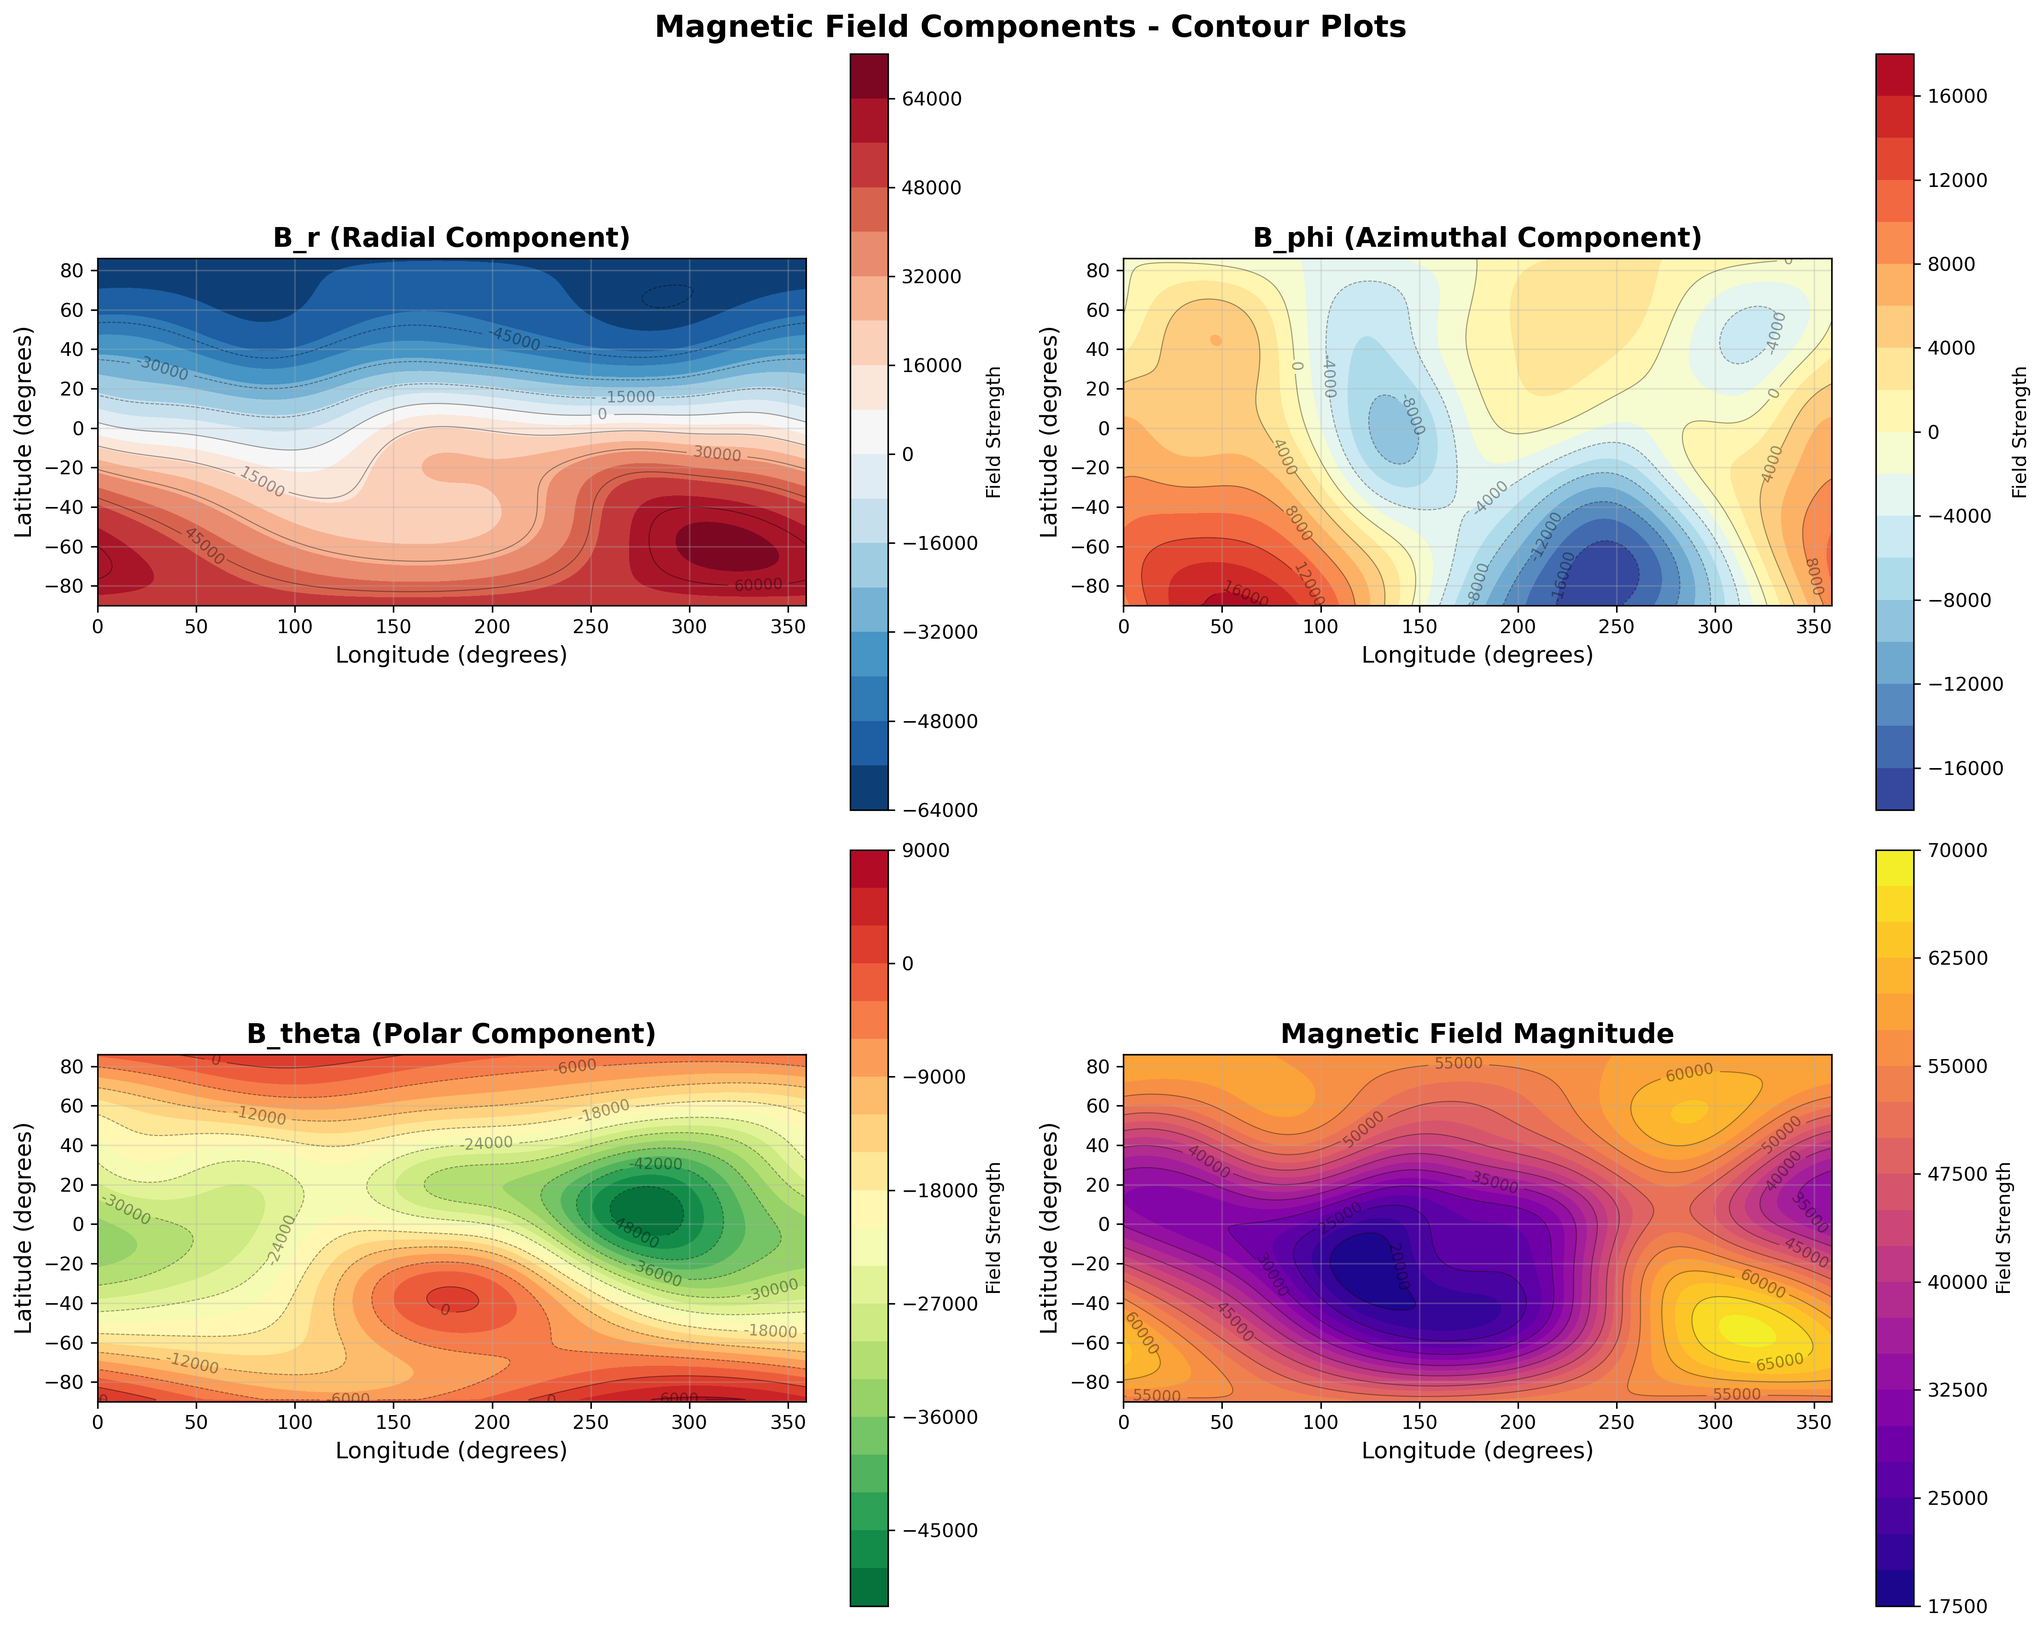
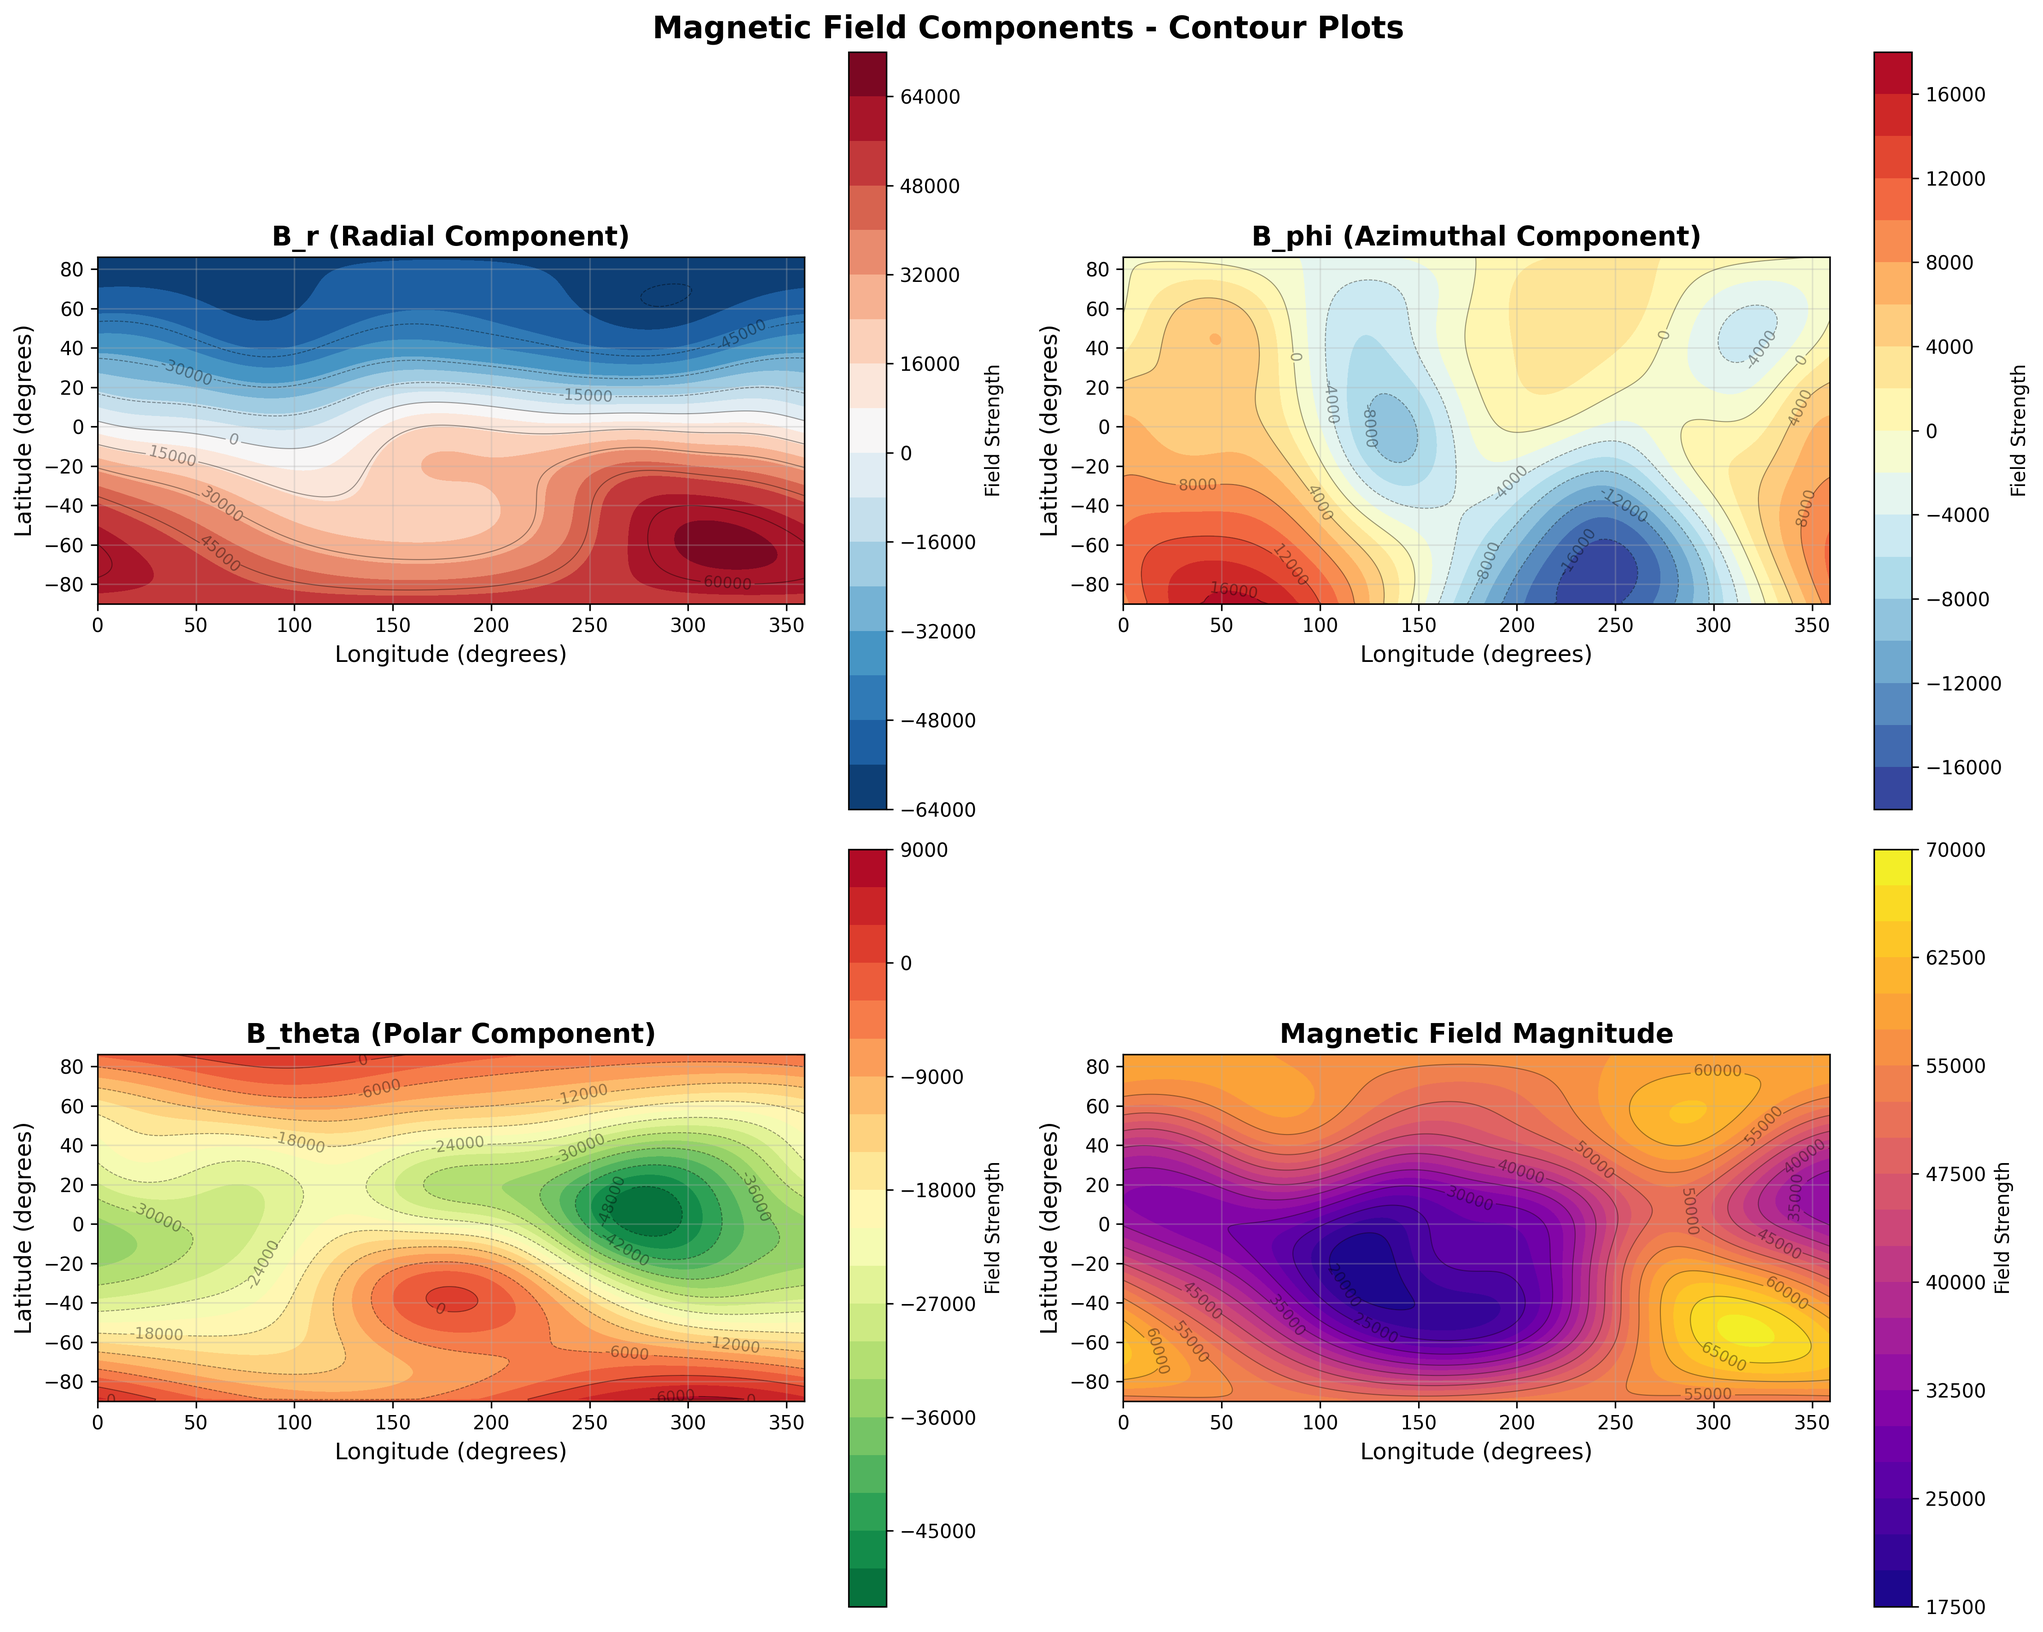
Make model order variable

diff --git a/src/gnc/world/b_field.cpp b/src/gnc/world/b_field.cpp
@@ -10,7 +10,8 @@
 // #include "constants.h"
 
 #define R_E 6378.0f
-#define MAX_ORDER 6
+#define MAX_ORDER 13
+#define MODEL_ORDER 10
 
 // Forward declare legendre polynomial functions
 float legendre_schmidt(int n, int m, float x);
@@ -21,44 +22,114 @@ float d_legendre_schmidt(int n, int m, float x);
 // Units in nanotesla
 // There is no n=0 term (that would imply a magnetic monopole)
 float g[MAX_ORDER + 1][MAX_ORDER + 1] = {
-    {0.0, 0.0, 0.0, 0.0, 0.0, 0.0, 0.0},               // n=0
-    {-29350.0, -1410.3, 0.0, 0.0, 0.0, 0.0, 0.0},      // n=1
-    {-2556.2, 2950.9, 1648.7, 0.0, 0.0, 0.0, 0.0},     // n=2
-    {1360.9, -2404.2, 1243.8, 453.4, 0.0, 0.0, 0.0},   // n=3
-    {894.7, 799.6, 55.8, -281.1, 12.0, 0.0, 0.0},      // n=4
-    {-232.9, 369.0, 187.2, -138.7, -141.9, 20.9, 0.0}, // n=5
-    {66.0, 65.5, 72.9, -121.5, -36.2, 13.9, -64.7}     // n=6
+    {0.0, 0.0, 0.0, 0.0, 0.0, 0.0, 0.0, 0.0, 0.0, 0.0, 0.0, 0.0, 0.0,
+     0.0}, // n=0
+    {-29350, -1410.3, 0.0, 0.0, 0.0, 0.0, 0.0, 0.0, 0.0, 0.0, 0.0, 0.0, 0.0,
+     0.0}, // n=1
+    {-2556.2, 2950.9, 1648.7, 0.0, 0.0, 0.0, 0.0, 0.0, 0.0, 0.0, 0.0, 0.0, 0.0,
+     0.0}, // n=2
+    {1360.9, -2404.2, 1243.8, 453.4, 0.0, 0.0, 0.0, 0.0, 0.0, 0.0, 0.0, 0.0,
+     0.0, 0.0}, // n=3
+    {894.7, 799.6, 55.8, -281.1, 12, 0.0, 0.0, 0.0, 0.0, 0.0, 0.0, 0.0, 0.0,
+     0.0}, // n=4
+    {-232.9, 369, 187.2, -138.7, -141.9, 20.9, 0.0, 0.0, 0.0, 0.0, 0.0, 0.0,
+     0.0, 0.0}, // n=5
+    {64.3, 63.8, 76.7, -115.7, -40.9, 14.9, -60.8, 0.0, 0.0, 0.0, 0.0, 0.0, 0.0,
+     0.0}, // n=6
+    {79.6, -76.9, -8.8, 59.3, 15.8, 2.5, -11.2, 14.3, 0.0, 0.0, 0.0, 0.0, 0.0,
+     0.0}, // n=7
+    {23.1, 10.9, -17.5, 2, -21.8, 16.9, 14.9, -16.8, 1, 0.0, 0.0, 0.0, 0.0,
+     0.0}, // n=8
+    {4.7, 8, 3, -0.2, -2.5, -13.1, 2.4, 8.6, -8.7, -12.8, 0.0, 0.0, 0.0,
+     0.0}, // n=9
+    {-1.3, -6.4, 0.2, 2, -1, -0.5, -0.9, 1.5, 0.9, -2.6, -3.9, 0.0, 0.0,
+     0.0}, // n=10
+    {3, -1.4, -2.5, 2.4, -0.6, 0.0, -0.6, -0.1, 1.1, -1, -0.1, 2.6, 0.0,
+     0.0}, // n=11
+    {-2, -0.1, 0.4, 1.2, -1.2, 0.6, 0.5, 0.5, -0.1, -0.5, -0.2, -1.2, -0.7,
+     0.0}, // n=12
+    {0.2, -0.9, 0.6, 0.7, -0.2, 0.5, 0.1, 0.7, 0.0, 0.3, 0.2, 0.4, -0.5,
+     -0.4}, // n=13
 };
 
 // There is no m=0 term. In m=0 the sin term is zero and
 // the cosine term is 1 so only the g term matters.
 float h[MAX_ORDER + 1][MAX_ORDER + 1] = {
-    {0.0, 0.0, 0.0, 0.0, 0.0, 0.0, 0.0},           // n=0
-    {0.0, 4545.5, 0.0, 0.0, 0.0, 0.0, 0.0},        // n=1
-    {0.0, -3133.6, -814.2, 0.0, 0.0, 0.0, 0.0},    // n=2
-    {0.0, -56.9, 237.6, -549.6, 0.0, 0.0, 0.0},    // n=3
-    {0.0, 278.6, -134.0, 212.0, -375.4, 0.0, 0.0}, // n=4
-    {0.0, 45.3, 220.0, -122.9, 42.9, 106.2, 0.0},  // n=5
-    {0.0, -24.5, -27.7, -79.3, 2.2, 16.9, -50.2}   // n=6
+    {0.0, 0.0, 0.0, 0.0, 0.0, 0.0, 0.0, 0.0, 0.0, 0.0, 0.0, 0.0, 0.0,
+     0.0}, // n=0
+    {0.0, 4545.5, 0.0, 0.0, 0.0, 0.0, 0.0, 0.0, 0.0, 0.0, 0.0, 0.0, 0.0,
+     0.0}, // n=1
+    {0.0, -3133.6, -814.2, 0.0, 0.0, 0.0, 0.0, 0.0, 0.0, 0.0, 0.0, 0.0, 0.0,
+     0.0}, // n=2
+    {0.0, -56.9, 237.6, -549.6, 0.0, 0.0, 0.0, 0.0, 0.0, 0.0, 0.0, 0.0, 0.0,
+     0.0}, // n=3
+    {0.0, 278.6, -134, 212, -375.4, 0.0, 0.0, 0.0, 0.0, 0.0, 0.0, 0.0, 0.0,
+     0.0}, // n=4
+    {0.0, 45.3, 220, -122.9, 42.9, 106.2, 0.0, 0.0, 0.0, 0.0, 0.0, 0.0, 0.0,
+     0.0}, // n=5
+    {0.0, -18.4, 16.8, 48.9, -59.8, 10.9, 72.8, 0.0, 0.0, 0.0, 0.0, 0.0, 0.0,
+     0.0}, // n=6
+    {0.0, -48.9, -14.4, -1, 23.5, -7.4, -25.1, -2.2, 0.0, 0.0, 0.0, 0.0, 0.0,
+     0.0}, // n=7
+    {0.0, 7.2, -12.6, 11.5, -9.7, 12.7, 0.7, -5.2, 3.9, 0.0, 0.0, 0.0, 0.0,
+     0.0}, // n=8
+    {0.0, -24.8, 12.1, 8.3, -3.4, -5.3, 7.2, -0.6, 0.8, 9.8, 0.0, 0.0, 0.0,
+     0.0}, // n=9
+    {0.0, 3.3, 0.1, 2.5, 5.4, -9, 0.4, -4.2, -3.8, 0.9, -9, 0.0, 0.0,
+     0.0}, // n=10
+    {0.0, 0.0, 2.8, -0.6, 0.1, 0.5, -0.3, -1.2, -1.7, -2.9, -1.8, -2.3, 0.0,
+     0.0}, // n=11
+    {0.0, -1.2, 0.6, 1, -1.5, 0.0, 0.6, -0.2, 0.8, 0.1, -0.9, 0.1, 0.2,
+     0.0}, // n=12
+    {0.0, -0.9, 0.7, 1.2, -0.3, -1.3, -0.1, 0.2, -0.2, 0.5, 0.6, -0.6, -0.3,
+     -0.5} // n=13
 };
 
 // Pre-computed Schmidt quasi-normalization factors
 // S(n,m) = sqrt((2-delta(0,m))(n-m)!/(n+m)!)
-const float SCHMIDT_FACTORS[MAX_ORDER + 1][MAX_ORDER + 1] = {
-    {1.000000, 0.000000, 0.000000, 0.000000, 0.000000, 0.000000,
-     0.000000}, // n=0/
-    {1.000000, 1.000000, 0.000000, 0.000000, 0.000000, 0.000000,
+float SCHMIDT_FACTORS[MAX_ORDER + 1][MAX_ORDER + 1] = {
+    {1.000000, 0.000000, 0.000000, 0.000000, 0.000000, 0.000000, 0.000000,
+     0.000000, 0.000000, 0.000000, 0.000000, 0.000000, 0.000000,
+     0.000000}, // n=0
+    {1.000000, 1.000000, 0.000000, 0.000000, 0.000000, 0.000000, 0.000000,
+     0.000000, 0.000000, 0.000000, 0.000000, 0.000000, 0.000000,
      0.000000}, // n=1
-    {1.000000, 0.577350, 0.288675, 0.000000, 0.000000, 0.000000,
+    {1.000000, 0.577350, 0.288675, 0.000000, 0.000000, 0.000000, 0.000000,
+     0.000000, 0.000000, 0.000000, 0.000000, 0.000000, 0.000000,
      0.000000}, // n=2
-    {1.000000, 0.408248, 0.129099, 0.052705, 0.000000, 0.000000,
+    {1.000000, 0.408248, 0.129099, 0.052705, 0.000000, 0.000000, 0.000000,
+     0.000000, 0.000000, 0.000000, 0.000000, 0.000000, 0.000000,
      0.000000}, // n=3
-    {1.000000, 0.316228, 0.074536, 0.019920, 0.007043, 0.000000,
+    {1.000000, 0.316228, 0.074536, 0.019920, 0.007043, 0.000000, 0.000000,
+     0.000000, 0.000000, 0.000000, 0.000000, 0.000000, 0.000000,
      0.000000}, // n=4
-    {1.000000, 0.258199, 0.048795, 0.009960, 0.002348, 0.000742,
+    {1.000000, 0.258199, 0.048795, 0.009960, 0.002348, 0.000742, 0.000000,
+     0.000000, 0.000000, 0.000000, 0.000000, 0.000000, 0.000000,
      0.000000}, // n=5
-    {1.000000, 0.218218, 0.034503, 0.005751, 0.001050, 0.000224,
-     0.000065}, // n=6
+    {1.000000, 0.218218, 0.034503, 0.005751, 0.001050, 0.000224, 0.000065,
+     0.000000, 0.000000, 0.000000, 0.000000, 0.000000, 0.000000,
+     0.000000}, // n=6
+    {1.000000, 0.188982, 0.025717, 0.003637, 0.000548, 0.000091, 0.000018,
+     0.000005, 0.000000, 0.000000, 0.000000, 0.000000, 0.000000,
+     0.000000}, // n=7
+    {1.000000, 0.166667, 0.019920, 0.002452, 0.000317, 0.000044, 0.000007,
+     0.000001, 0.000000, 0.000000, 0.000000, 0.000000, 0.000000,
+     0.000000}, // n=8
+    {1.000000, 0.149071, 0.015891, 0.001734, 0.000196, 0.000023, 0.000003,
+     0.000000, 0.000000, 0.000000, 0.000000, 0.000000, 0.000000,
+     0.000000}, // n=9
+    {1.000000, 0.134840, 0.012975, 0.001272, 0.000129, 0.000014, 0.000002,
+     0.000000, 0.000000, 0.000000, 0.000000, 0.000000, 0.000000,
+     0.000000}, // n=10
+    {1.000000, 0.123091, 0.010796, 0.000962, 0.000088, 0.000008, 0.000001,
+     0.000000, 0.000000, 0.000000, 0.000000, 0.000000, 0.000000,
+     0.000000}, // n=11
+    {1.000000, 0.113228, 0.009124, 0.000745, 0.000062, 0.000005, 0.000000,
+     0.000000, 0.000000, 0.000000, 0.000000, 0.000000, 0.000000,
+     0.000000}, // n=12
+    {1.000000, 0.104828, 0.007813, 0.000589, 0.000045, 0.000004, 0.000000,
+     0.000000, 0.000000, 0.000000, 0.000000, 0.000000, 0.000000,
+     0.000000} // n=13
 };
 
 void compute_B(slate_t *slate)
@@ -66,12 +137,11 @@ void compute_B(slate_t *slate)
     const float alt = slate->geodetic[0]; // altitude (km)
     const float lat = slate->geodetic[1]; // latitude (-90 to 90)
     const float lon = slate->geodetic[2]; // longitude (-180 to 180)
-    
 
     // Convert to spherical coordinates using math spherical coordinate
     // conventions
     const float theta = (90.0f - lat) * M_PI / 180.0f; // colatitude [0 to π]
-    const float phi = (lon + 180) * M_PI / 180.0f;         // azimuth [-π to π]
+    const float phi = (lon + 180.0f) * M_PI / 180.0f;  // azimuth [-π to π]
 
     float Br = 0.0f;
     float Btheta = 0.0f;
@@ -92,9 +162,9 @@ void compute_B(slate_t *slate)
     // FLAG: IGNORE TRIADS IN THIS CASE
 
     // Pre-compute sin/cos m*phi terms
-    float sin_mphi[MAX_ORDER + 1] = {0.0f};
-    float cos_mphi[MAX_ORDER + 1] = {0.0f};
-    for (int m = 0; m <= MAX_ORDER; m++)
+    float sin_mphi[MODEL_ORDER + 1] = {0.0f};
+    float cos_mphi[MODEL_ORDER + 1] = {0.0f};
+    for (int m = 0; m <= MODEL_ORDER; m++)
     {
         sin_mphi[m] = sin(m * phi);
         cos_mphi[m] = cos(m * phi);
@@ -102,17 +172,16 @@ void compute_B(slate_t *slate)
 
     // Main field computation loop
     float r_ratio_n = r_ratio * r_ratio * r_ratio; // Start at n=1 term T
-    for (int n = 1; n <= MAX_ORDER; n++)
+    for (int n = 1; n <= MODEL_ORDER; n++)
     {
         for (int m = 0; m <= n; m++)
         {
             // Get Schmidt normalized associated Legendre functions
             const float P = legendre_schmidt(n, m, cos_theta);
-            const float dP = - sin_theta * d_legendre_schmidt(n, m, cos_theta);
+            const float dP = -sin_theta * d_legendre_schmidt(n, m, cos_theta);
 
             // Compute common term for efficiency
-            const float term =
-                    (g[n][m] * cos_mphi[m] + h[n][m] * sin_mphi[m]);
+            const float term = (g[n][m] * cos_mphi[m] + h[n][m] * sin_mphi[m]);
 
             // Accumulate field components
             // Magnetic field in r direction
@@ -125,7 +194,7 @@ void compute_B(slate_t *slate)
             { // m=0 terms don't contribute to Bphi
                 const float Bphi_term =
                     (-g[n][m] * sin_mphi[m] + h[n][m] * cos_mphi[m]) *
-                     (float)m * P / sin_theta_reg;
+                    (float)m * P / sin_theta_reg;
                 // (float)m * P / sin_theta_reg *
 
                 // Smooth transition near poles
@@ -147,7 +216,7 @@ void compute_B(slate_t *slate)
 // Modified Legendre function using pre-computed factors
 float legendre_schmidt(int n, int m, float x)
 {
-    if (n > MAX_ORDER || m > n)
+    if (n > MODEL_ORDER || m > n)
         return 0;
 
     // First compute P_m^m
@@ -230,8 +299,8 @@ void test_compute_B(slate_t *slate)
     {
         float alt, lat, lon;
         float expected_Br;     // Expected radial component  (-Z)
-        float expected_Bphi; // Expected theta component  (Y)
-        float expected_Btheta;   // Expected phi component    (-X)
+        float expected_Bphi;   // Expected theta component  (Y)
+        float expected_Btheta; // Expected phi component    (-X)
         float expected_mag;    // Expected total magnitude  (F)
         const char *name;
     };
@@ -402,15 +471,10 @@ void test_map_compute_B(slate_t *slate)
             compute_B(slate);
 
             float magnitude = sqrt(slate->B_est.x * slate->B_est.x +
-                               slate->B_est.y * slate->B_est.y +
-                               slate->B_est.z * slate->B_est.z);
-            printf("%d, %f, %f, %f, %f, %f, %f\n", altitude, 
-                                            lat, 
-                                            lon, 
-                                            slate->B_est.x, 
-                                            slate->B_est.y, 
-                                            slate->B_est.z, 
-                                            magnitude);
+                                   slate->B_est.y * slate->B_est.y +
+                                   slate->B_est.z * slate->B_est.z);
+            printf("%d, %f, %f, %f, %f, %f, %f\n", altitude, lat, lon,
+                   slate->B_est.x, slate->B_est.y, slate->B_est.z, magnitude);
         }
     }
 }

diff --git a/src/linalg.h b/src/linalg.h
@@ -648,8 +648,8 @@ struct select
 struct lerp
 {
     template <class A, class B, class C>
-    constexpr auto operator()(A a, B b,
-                              C c) const -> decltype(a * (1 - c) + b * c)
+    constexpr auto operator()(A a, B b, C c) const
+        -> decltype(a * (1 - c) + b * c)
     {
         return a * (1 - c) + b * c;
     }
@@ -1516,14 +1516,14 @@ constexpr typename detail::any_compare<A, B>::type compare(const A &a,
     return detail::any_compare<A, B>()(a, b);
 }
 template <class A, class B>
-constexpr auto operator==(const A &a,
-                          const B &b) -> decltype(compare(a, b) == 0)
+constexpr auto operator==(const A &a, const B &b)
+    -> decltype(compare(a, b) == 0)
 {
     return compare(a, b) == 0;
 }
 template <class A, class B>
-constexpr auto operator!=(const A &a,
-                          const B &b) -> decltype(compare(a, b) != 0)
+constexpr auto operator!=(const A &a, const B &b)
+    -> decltype(compare(a, b) != 0)
 {
     return compare(a, b) != 0;
 }
@@ -1538,14 +1538,14 @@ constexpr auto operator>(const A &a, const B &b) -> decltype(compare(a, b) > 0)
     return compare(a, b) > 0;
 }
 template <class A, class B>
-constexpr auto operator<=(const A &a,
-                          const B &b) -> decltype(compare(a, b) <= 0)
+constexpr auto operator<=(const A &a, const B &b)
+    -> decltype(compare(a, b) <= 0)
 {
     return compare(a, b) <= 0;
 }
 template <class A, class B>
-constexpr auto operator>=(const A &a,
-                          const B &b) -> decltype(compare(a, b) >= 0)
+constexpr auto operator>=(const A &a, const B &b)
+    -> decltype(compare(a, b) >= 0)
 {
     return compare(a, b) >= 0;
 }

diff --git a/src/main.cpp b/src/main.cpp
@@ -20,22 +20,22 @@ slate_t slate;
 int main()
 {
     stdio_init_all();
-    
+
     /*
     gpio_init(PICO_DEFAULT_LED_PIN);
     gpio_set_dir(PICO_DEFAULT_LED_PIN, GPIO_OUT);
-    
+
     gpio_put(PICO_DEFAULT_LED_PIN, 1);
     sleep_ms(1000);
     gpio_put(PICO_DEFAULT_LED_PIN, 0);
     */
 
     sleep_ms(5000);
-    test_compute_B(&slate);
-    //test_map_compute_B(&slate);
-    //test_legendre_polynomials();
+    // test_compute_B(&slate);
+    test_map_compute_B(&slate);
+    // test_legendre_polynomials();
 
-    //test_compute_B(&slate);
+    // test_compute_B(&slate);
 
     // #ifdef TEST
     //     while (1)

diff --git a/scripts/serial_dump.py b/scripts/serial_dump.py
@@ -99,8 +99,8 @@ def read_serial_to_csv(port, baudrate=9600, timeout=1, output_file=None):
 # Example usage
 if __name__ == "__main__":
     # Configure these parameters for your setup
-    SERIAL_PORT = "/dev/ttyACM0"  # Change to your port (e.g., "/dev/ttyUSB0" on Linux)
-    BAUD_RATE = 9600      # Change to match your device
+    SERIAL_PORT = "/dev/tty.usbmodem1101"  # Change to your port (e.g., "/dev/ttyUSB0" on Linux)
+    BAUD_RATE = 115200      # Change to match your device
     
     # Read serial data to CSV
     read_serial_to_csv(SERIAL_PORT, BAUD_RATE)
